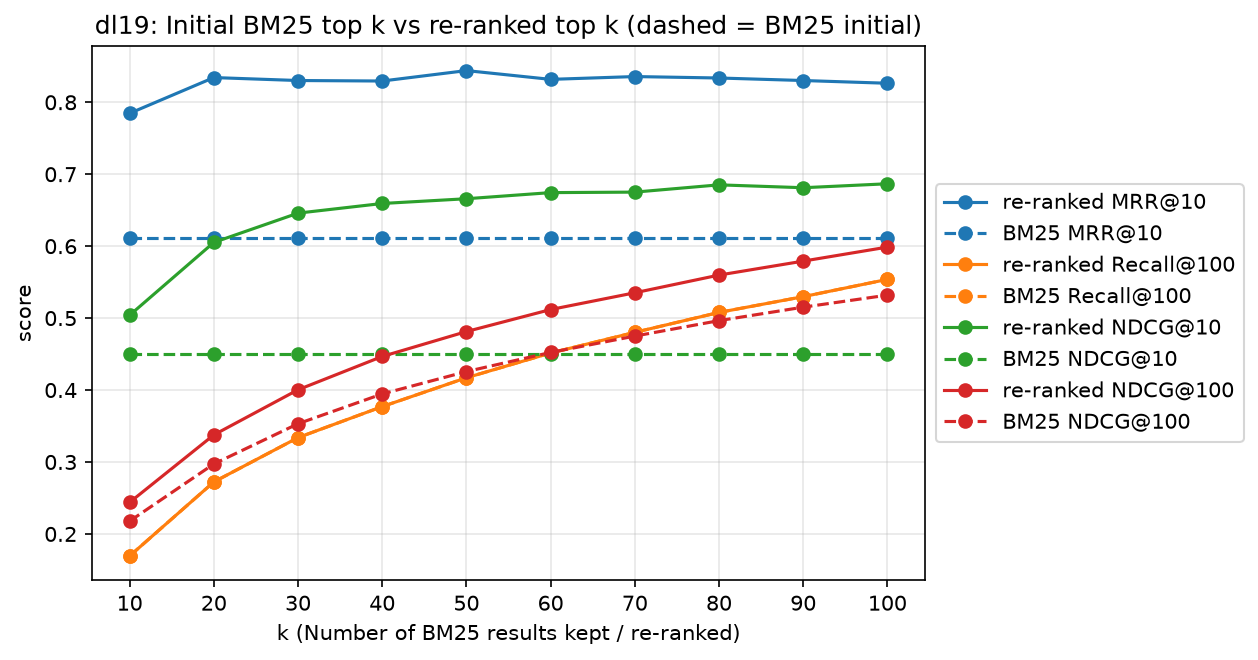
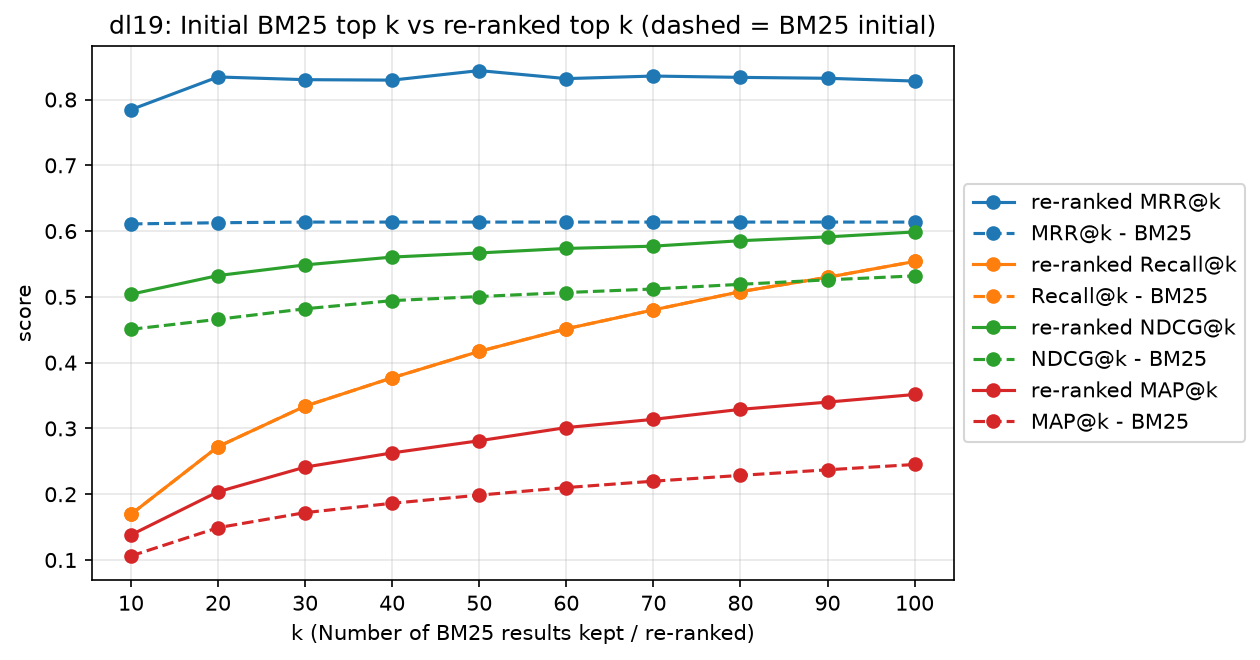
changes to plot

diff --git a/Eval/ploteval.py b/Eval/ploteval.py
@@ -27,25 +27,26 @@ QRELS = {
     "dev":  "Data/qrels.dev.trec.tsv",
 }
 
-GRADED = {
-    "MRR@10":     ["-l", "2", "-M", "10", "-m", "recip_rank"],
-    "Recall@100": ["-l", "2", "-m", "recall.100"],
-    "NDCG@10":    ["-m", "ndcg_cut.10"],
-    "NDCG@100":   ["-m", "ndcg_cut.100"],
-}
-BINARY = {
-    "MRR@10":     ["-M", "10", "-m", "recip_rank"],
-    "Recall@100": ["-m", "recall.100"],
-    "MAP":        ["-m", "map"],
+def graded(k):
+    return {
+        "MRR@k":    ["-l", "2", "-M", str(k), "-m", "recip_rank"],
+        "Recall@k": ["-l", "2", "-m", f"recall.{k}"],
+        "NDCG@k":   ["-m", f"ndcg_cut.{k}"],
+        "MAP@k":    ["-l", "2", "-m", "map"],
 }
 
+def binary(k):
+    return {
+        "MRR@k":    ["-M", str(k), "-m", "recip_rank"],
+        "Recall@k": ["-m", f"recall.{k}"],
+        "MAP@k":    ["-m", "map"],
+    }
 KS = list(range(10, 101, 10))
 os.makedirs("Eval/ploteval", exist_ok=True)
 os.makedirs("Runs/topk", exist_ok=True)
 
 for name, qrels in QRELS.items():
-    measures = BINARY if name == "dev" else GRADED
-
+    measures = binary if name == "dev" else graded
     # make top-k versions of both runs once per k
     bm25_k, rerank_k = {}, {}
     for k in KS:
@@ -53,11 +54,11 @@ for name, qrels in QRELS.items():
         rerank_k[k] = truncate(f"Runs/ksweep/rerank{k}_{name}.txt", k, f"Runs/topk/rerank{k}_{name}.txt")
 
     plt.figure(figsize=(8.5, 4.5))
-    for metric, flags in measures.items():
-        rr = [trecfairy(qrels, rerank_k[k], flags) for k in KS]
-        bm = [trecfairy(qrels, bm25_k[k], flags) for k in KS]
+    for metric in measures(10):
+        rr = [trecfairy(qrels, rerank_k[k],measures(k)[metric]) for k in KS]
+        bm = [trecfairy(qrels, bm25_k[k], measures(k)[metric]) for k in KS]
         line, = plt.plot(KS, rr, marker="o", label=f"re-ranked {metric}")
-        plt.plot(KS, bm, linestyle="--", marker="o", color=line.get_color(), label=f"BM25 {metric}")
+        plt.plot(KS, bm, linestyle="--", marker="o", color=line.get_color(), label=f"{metric} - BM25")
         print(name, metric, "BM25 by k:", [round(v, 3) for v in bm])
         print(name, metric, "rerank by k:", [round(v, 3) for v in rr])
 
